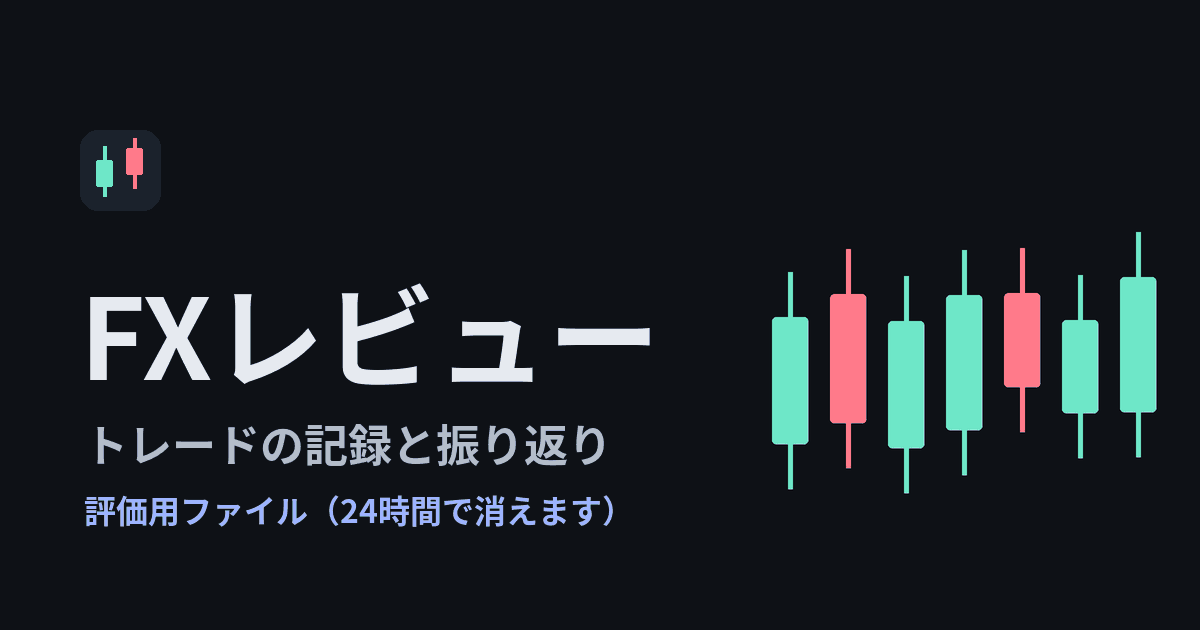
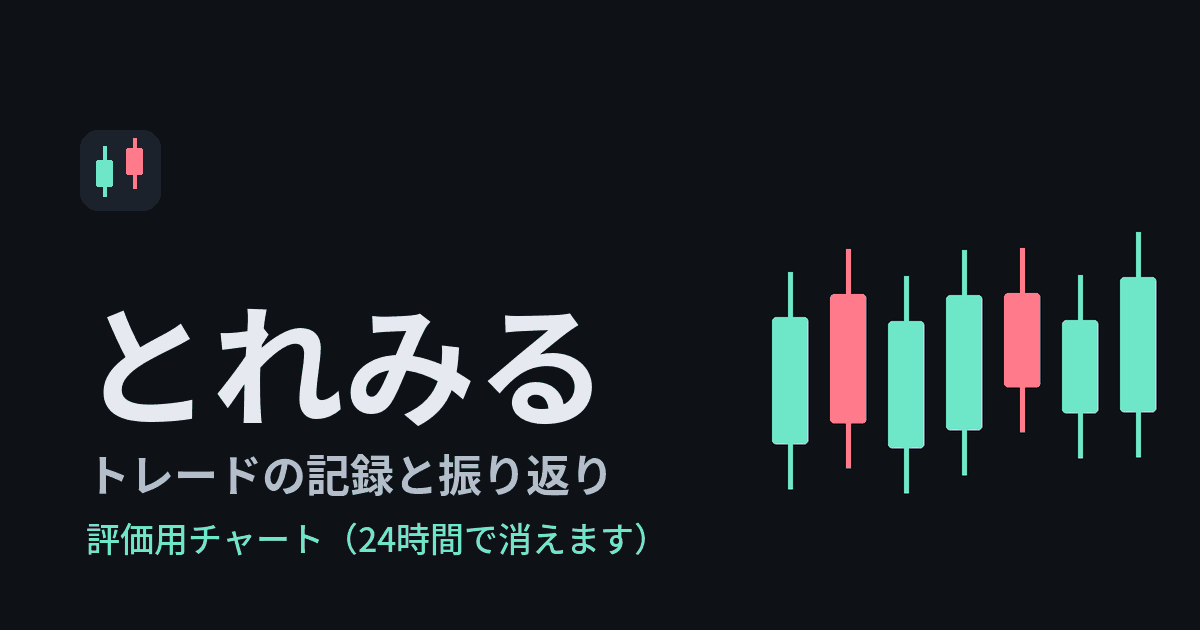
feat(share): 評価用ページのリンクカードの画像を「とれみる」に統一し、画像形式のタグを追加
og.png の表記が「FXレビュー」でサイト名（とれみる）と食い違い、補足文も配色ルール外の色だったため作り直す。
Worker に埋め込んでいる og.png も同じ画像に差し替え（Worker の再デプロイが必要）。
評価用ページの <head> に og:image:type を追加。

Claude-Session: https://claude.ai/code/session_01QyCpNZMudZBNccgzUk9ZgF

Changed region(s): [[0.0617, 0.4524, 0.555, 0.9048]]

diff --git a/cloudflare/share-worker/src/index.js b/cloudflare/share-worker/src/index.js
@@ -30,7 +30,7 @@ const MESSAGE_PAGE = `<!doctype html><html lang="ja"><head><meta charset="utf-8"
 
 // リンクのプレビュー（LINE・Slack・X など）に出す画像とアイコン。ファイル内に持つので、貼り付けるだけで動く
 const ASSETS = {
[4 lines of base64/hex data omitted]
   "/favicon.svg": { type: "image/svg+xml", text: "<svg xmlns=\"http://www.w3.org/2000/svg\" viewBox=\"0 0 64 64\">\n  <rect width=\"64\" height=\"64\" rx=\"14\" fill=\"#0E1116\"/>\n  <g stroke-linecap=\"round\">\n    <path d=\"M20 12v40\" stroke=\"#6EE7C8\" stroke-width=\"3\"/>\n    <rect x=\"13\" y=\"24\" width=\"14\" height=\"20\" rx=\"2\" fill=\"#6EE7C8\"/>\n    <path d=\"M44 8v40\" stroke=\"#FF7A8A\" stroke-width=\"3\"/>\n    <rect x=\"37\" y=\"14\" width=\"14\" height=\"22\" rx=\"2\" fill=\"#FF7A8A\"/>\n  </g>\n</svg>" },

diff --git a/frontend/src/features/trades/utils/shareMeta.ts b/frontend/src/features/trades/utils/shareMeta.ts
@@ -28,6 +28,7 @@ export function buildShareHeadMeta(escapedTitle: string): string {
     `<meta property="og:description" content="${d}">`,
     `<meta property="og:url" content="{{URL}}">`,
     `<meta property="og:image" content="{{ORIGIN}}/og.png">`,
+    `<meta property="og:image:type" content="image/png">`,
     `<meta property="og:image:width" content="1200">`,
     `<meta property="og:image:height" content="630">`,
     `<meta property="og:image:alt" content="${SITE_NAME}">`,

diff --git a/frontend/src/features/trades/utils/__tests__/shareHtml.test.ts b/frontend/src/features/trades/utils/__tests__/shareHtml.test.ts
@@ -200,6 +200,7 @@ describe("公開ページのプレビュー用タグ（LINEなど）", () => {
     expect(h).toContain(
       '<meta property="og:image" content="{{ORIGIN}}/og.png">',
     );
+    expect(h).toContain('<meta property="og:image:type" content="image/png">');
     expect(h).toContain('<meta property="og:url" content="{{URL}}">');
     expect(h).toContain(
       '<meta name="twitter:card" content="summary_large_image">',
